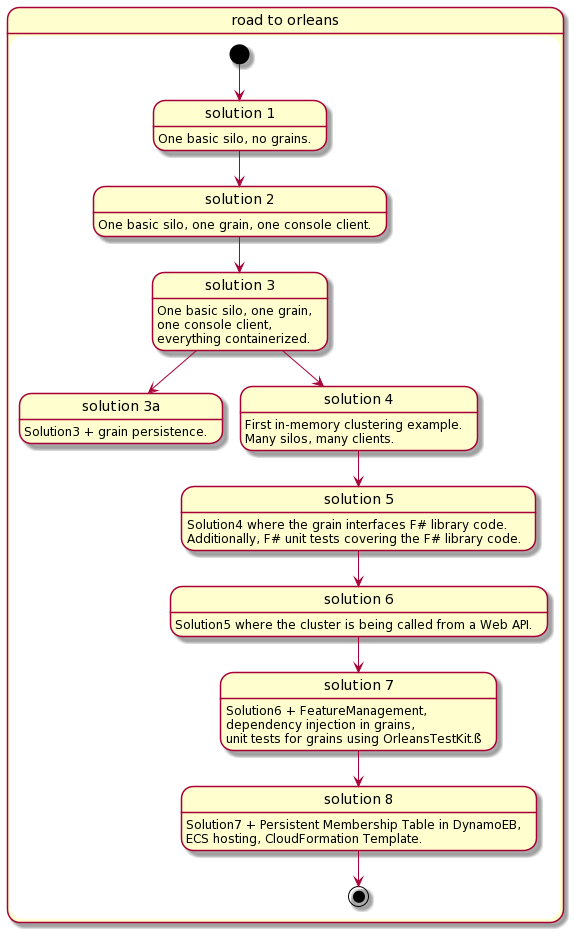
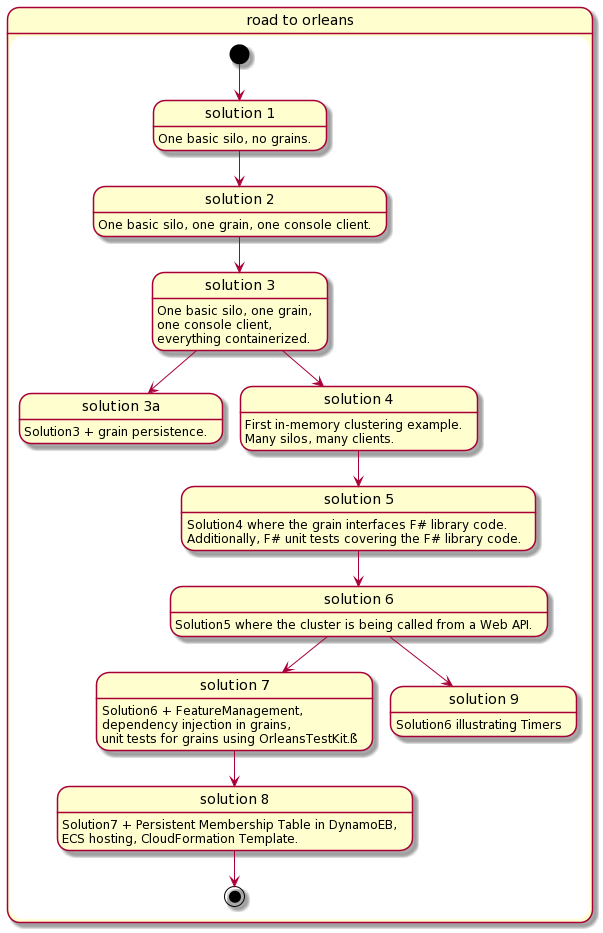
Fix PR comments

diff --git a/9/readme.md b/9/readme.md
@@ -1,6 +1,6 @@
 # readme
 
-This example builds on top of solution 7 and demonstrates how to:
+This example builds on top of solution 6 and demonstrates how to:
 
 * work with [Timers](https://dotnet.github.io/orleans/docs/grains/timers_and_reminders.html)
 
@@ -10,8 +10,8 @@ This example builds on top of solution 7 and demonstrates how to:
 
 As in example 6, following scripts can be used to run silos:
 
-* `./run-docker-silo.sh`
-* `./run-local-silo.sh`
+* `./run-silo-docker.sh`
+* `./run-silo-local.sh`
 
 Important thing to note is that if one wants to run multiple silos which form a cluster, following variables need to be made unique for every silo:
 
@@ -26,21 +26,7 @@ As in example 6, following scripts can be used to run clients:
 * `./run-client-docker.sh`
 * `./run-client-local.sh`
 
-### demo
-
-Now we get to a bit more serious testing as it's easier to laod test the setup. Here is what's happening:
-
-Load test results - vegeta. This image demonstartes the resuse of grains (50 max grains for HelloWorld)
-and feature managment in action, feature enabled - status code 200, feature disabled - status code 204:
-
-![2](./imgs/1.png)
-
-Load test results - orleans dashboard:
-
-![3](./imgs/2.png)
-
-#### running the demo
+### running the demo
 
 * run the cluster: `./run-demo-cluster.sh` (3 silos: 2 hosted in docker, 1 hosted locally)
 * run the client: `./run-demo-client.sh` (only one client needed in this case, vegeta is going to do the heavy lifting)
-* run the load test: `./run-demo-load-test.sh` (vegeta script generating 100 requests per second of constant load)

diff --git a/readme.md b/readme.md
@@ -32,7 +32,7 @@ Silo dashboards are available by default on `localhost:8080` unless configured o
 | [solution6](6/readme.md) | Solution5 where the cluster is being called from a Web API. | :white_check_mark: | in-memory | n | 1 C# grain interfacing F# library code | n - web api |||
 | [solution7](7/readme.md) | Solution6 + [FeatureManagement](https://www.nuget.org/packages/Microsoft.FeatureManagement/), dependency injection in grains, unit tests for grains using [OrleansTestKit](https://www.nuget.org/packages/OrleansTestKit/). | :white_check_mark: | in-memory | n | 1 C# grain interfacing F# library code | n - web api |||
 | [solution8](8/readme.md) | Solution7 + Persistent Membership Table in DynamoEB, ECS hosting, CloudFormation Template. | :white_check_mark: | Dynamo | n | 1 C# grain interfacing F# library code | n - web api |||
-| [solution9](9/readme.md) | Solution7 + Timers. | :white_check_mark: | in-memory | n | 2 C# grains interfacing F# library code | n - web api |||
+| [solution9](9/readme.md) | Solution6 + Timers. | :white_check_mark: | in-memory | n | 1 C# grains interfacing F# library code | n - web api |||
 
 \*visual studio code support:
 * `[ctrl/cmd]+shift+b`: builds selected projects
